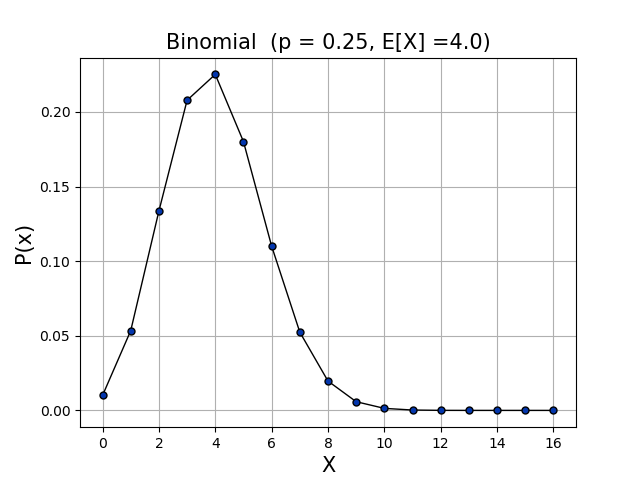
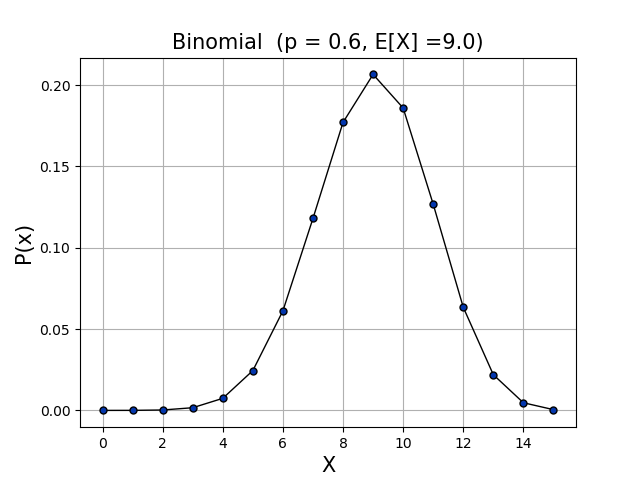
new plot

diff --git a/Pro/Python/Binomial.py b/Pro/Python/Binomial.py
@@ -75,5 +75,5 @@ def Binomial(p,n):
     return(y)
 
 
-a = Binomial(.25,16)
+a = Binomial(.60,15)
 print(a)

diff --git a/Pro/Python/tempCodeRunnerFile.py b/Pro/Python/tempCodeRunnerFile.py
@@ -75,5 +75,5 @@ def Binomial(p,n):
     return(y)
 
 
-a = Binomial(.25,16)
+a = Binomial(.60,15)
 print(a)
